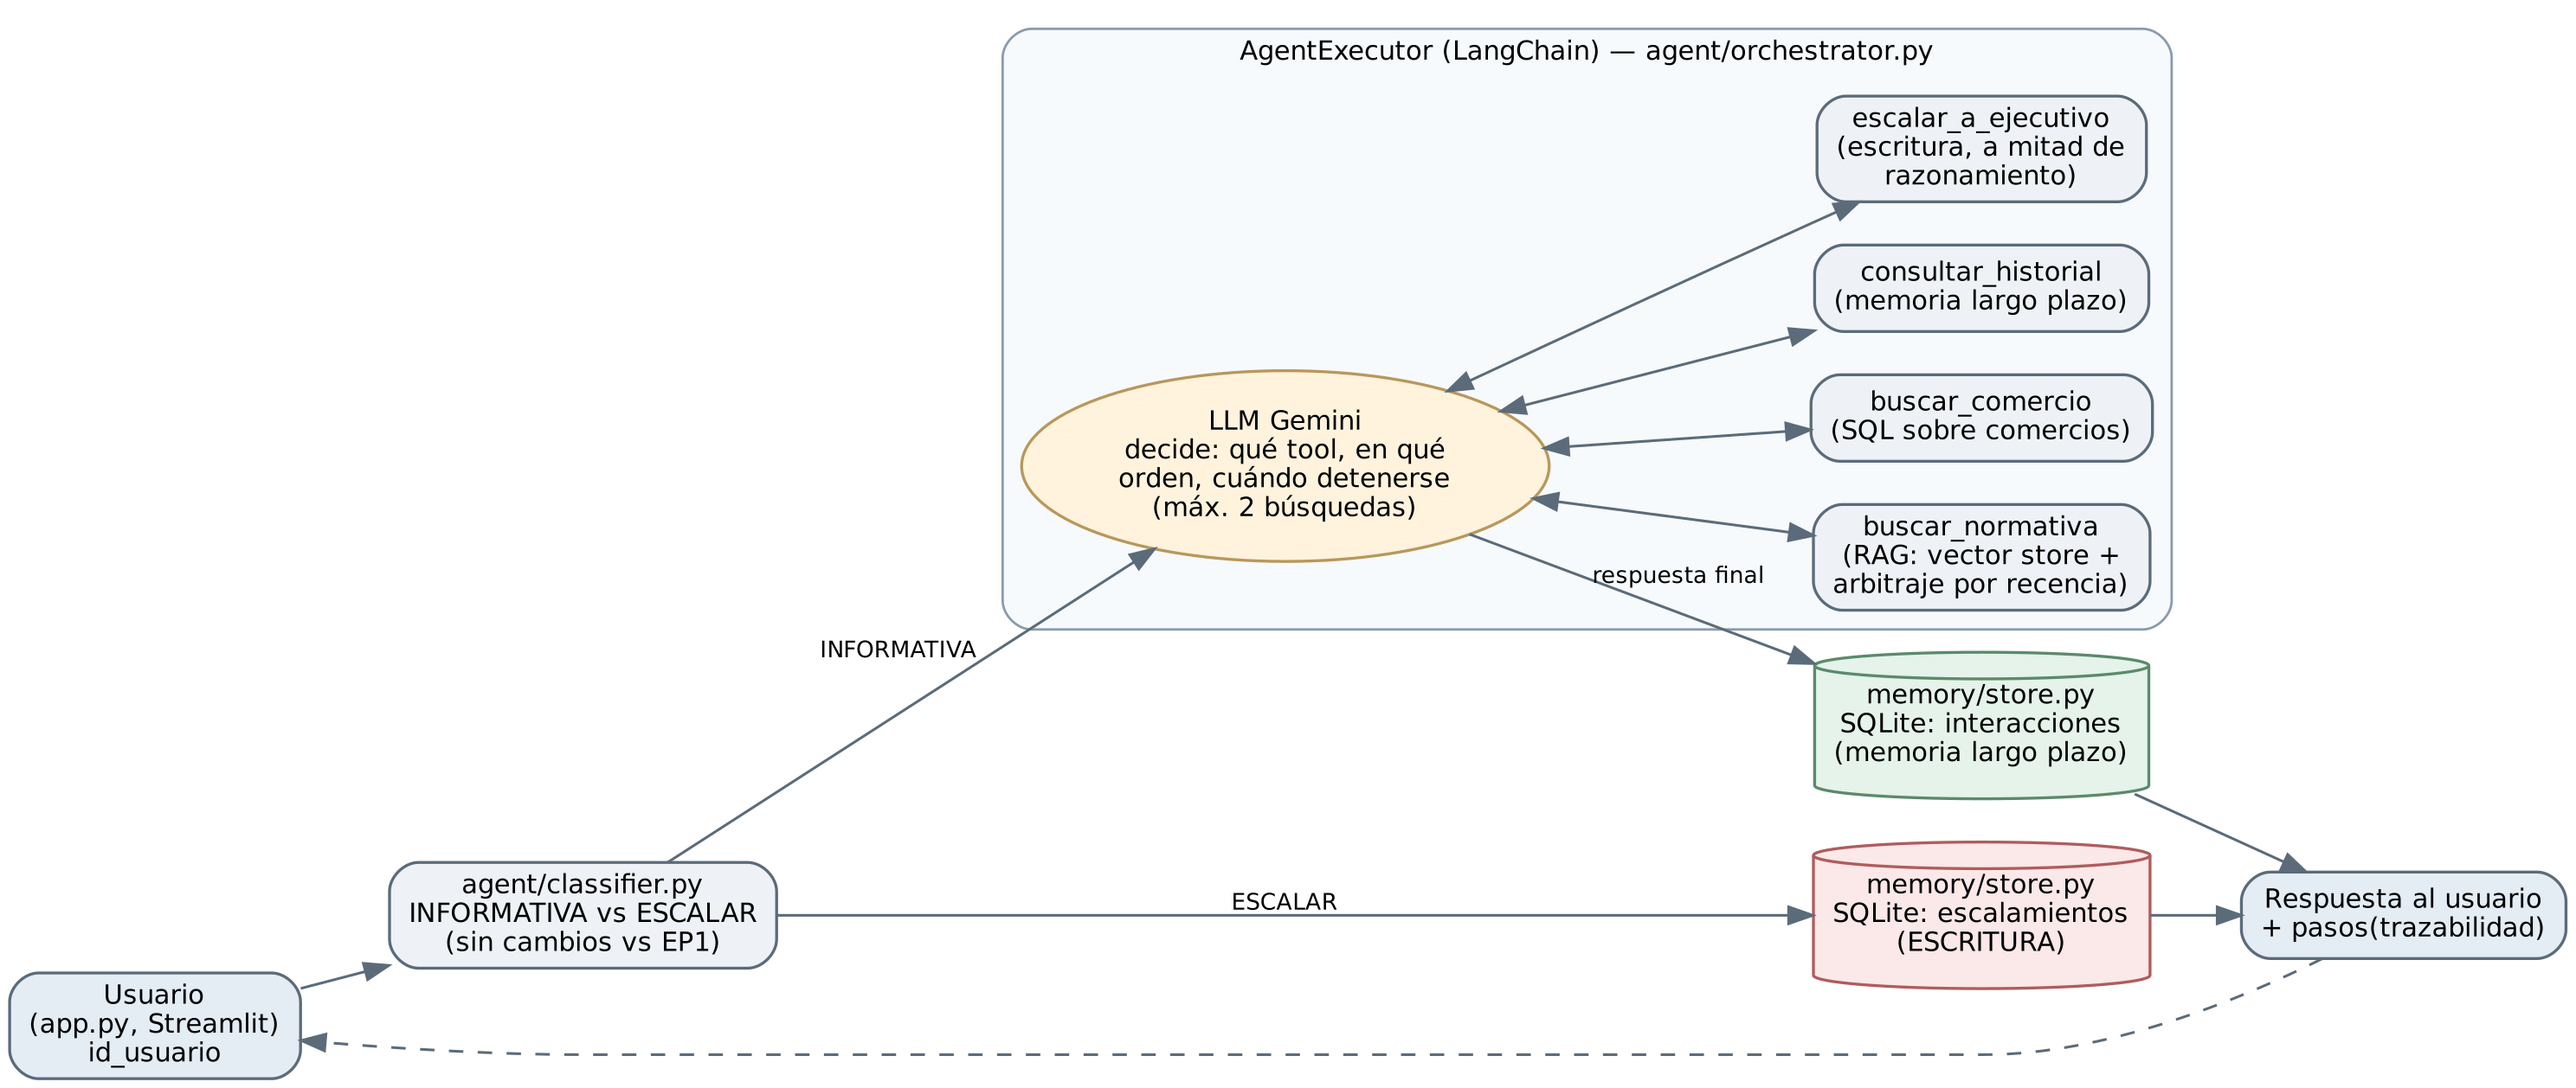
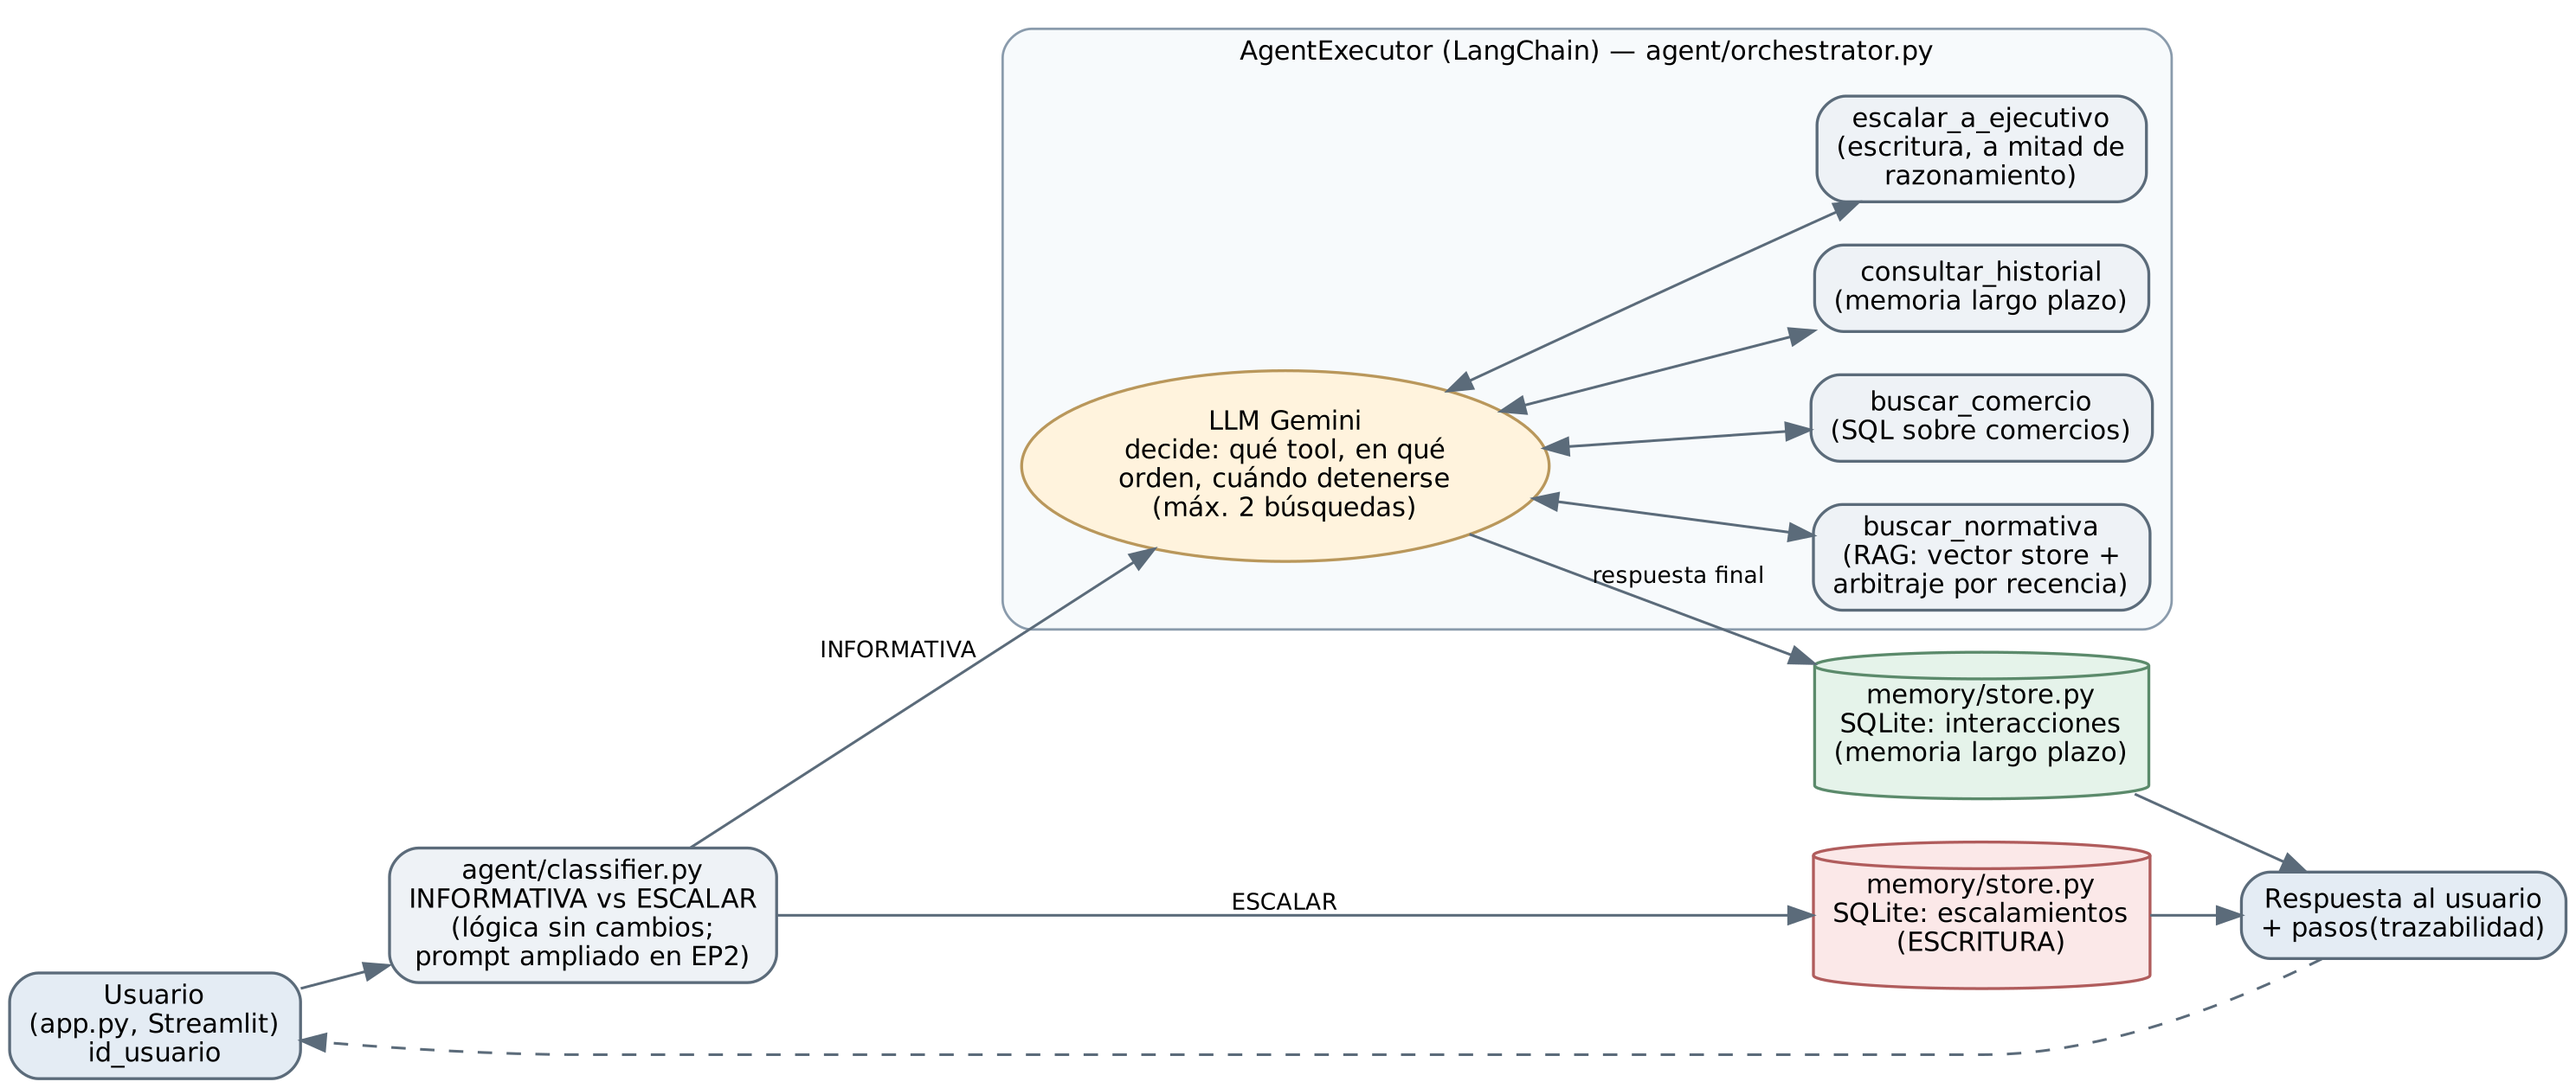
Corrige la descripción del clasificador en diagrama, README y arquitectura
La lógica del clasificador no cambió respecto a EP1, pero su prompt se
amplió en EP2 para no bloquear la memoria de largo plazo; el diagrama y los
textos decían "sin cambios", lo cual era impreciso.

Changed region(s): [[0.1562, 0.775, 0.3125, 0.93]]

diff --git a/docs/arquitectura.md b/docs/arquitectura.md
@@ -49,7 +49,8 @@ qué pasa después de clasificar como INFORMATIVA:
 1. Interfaz de chat (`app.py`) recibe la consulta — ahora con un
    `id_usuario` editable en la barra lateral, que identifica la memoria de
    largo plazo del estudiante (sin ser un login real, ver limitaciones).
-2. `agent/classifier.py` clasifica igual que en EP1, **sin cambios**: sigue
+2. `agent/classifier.py` clasifica igual que en EP1 en su lógica (su prompt
+   se amplió en EP2, ver hallazgo #4 más abajo): sigue
    siendo el filtro barato antes de invocar nada más costoso — evita gastar
    un ciclo completo de tool-calling (varias llamadas al LLM) en consultas
    claramente fuera de alcance.
@@ -132,8 +133,8 @@ diseñados para mostrar esto con llamadas reales.
 | Vector store | ChromaDB, colección `manual_faq_social` (única en esta versión, ver limitaciones) |
 | Tabla estructurada | sqlite3 (stdlib) sobre `data/comercios/comercios.csv` |
 | PDF parsing | `pypdf` |
-| Orquestación (INFORMATIVA) | **EP2**: `AgentExecutor` de LangChain (`langchain-google-genai` + `langchain.agents`), tool-calling sobre `gemini-3.6-flash` — reemplaza el camino fijo de EP1 (funciones Python planas) |
-| Orquestación (ESCALAR) | Sin cambios respecto a EP1: `agent/classifier.py` decide antes de llegar al agente |
+| Orquestación (INFORMATIVA) | **EP2**: `AgentExecutor` de LangChain (`langchain-google-genai` + `langchain_classic.agents`), tool-calling sobre `gemini-3.6-flash` — reemplaza el camino fijo de EP1 (funciones Python planas) |
+| Orquestación (ESCALAR) | Misma lógica que EP1: `agent/classifier.py` decide antes de llegar al agente (su prompt se amplió en EP2, ver hallazgo #4); la derivación ahora se persiste en SQLite |
 | Memoria persistente | **EP2**: sqlite3 (stdlib) en disco, `memory/store.py` — tablas `escalamientos` (escritura) e `interacciones` (memoria de largo plazo) |
 | Interfaz | Streamlit |
 

diff --git a/README.md b/README.md
@@ -66,7 +66,7 @@ por varios segundos antes de que aparezca la interfaz — no es un error).
 
 ![Diagrama de orquestación del agente EP2](docs/orquestacion_ep2.png)
 
-El clasificador (sin cambios respecto a EP1) decide INFORMATIVA vs ESCALAR. Si ESCALAR, se
+El clasificador (misma lógica de EP1; su prompt se amplió en EP2 para no bloquear la memoria de largo plazo) decide INFORMATIVA vs ESCALAR. Si ESCALAR, se
 registra la derivación directo en SQLite (escritura). Si INFORMATIVA, se arma un
 `AgentExecutor` de LangChain con 4 tools (`buscar_normativa`, `buscar_comercio`,
 `consultar_historial`, `escalar_a_ejecutivo`); el LLM decide qué tool invocar, en qué orden y
